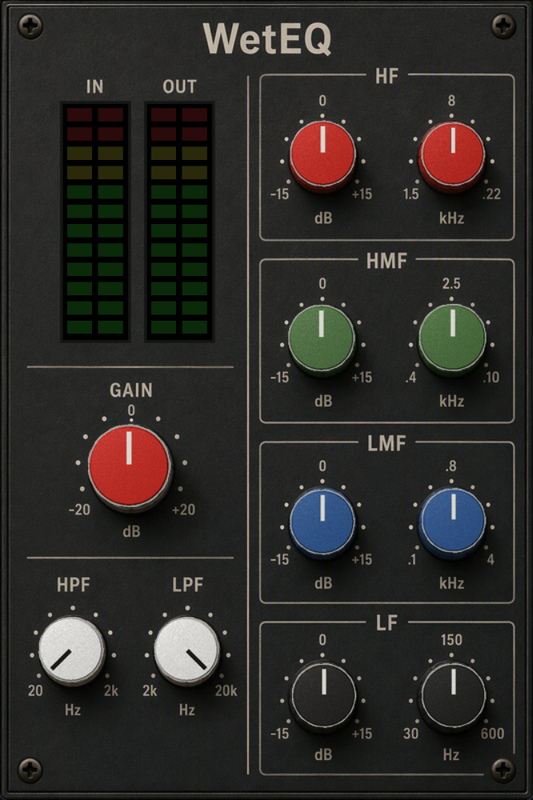
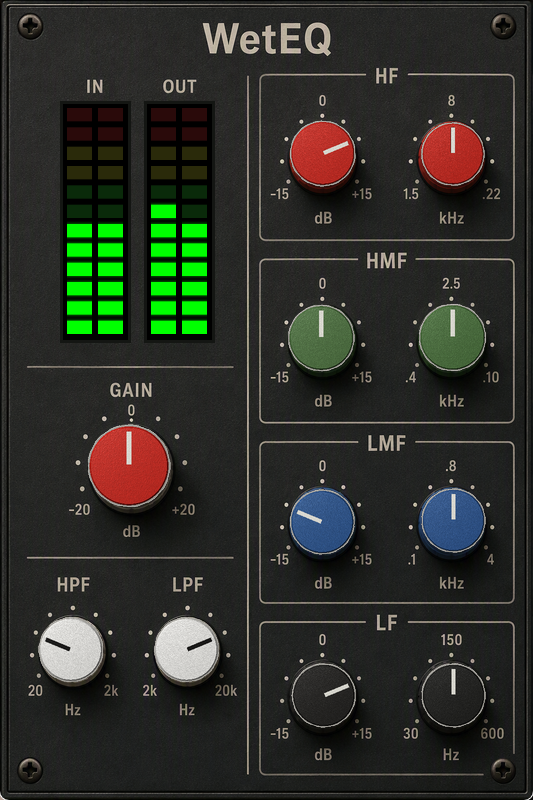
WetEQ shot with the meters running; compressor card goes live

diff --git a/index.html b/index.html
@@ -497,6 +497,32 @@
                         </div>
                     </div>
 
+                    <!-- WetCompressor - Available -->
+                    <div class="plugin-card available">
+                        <div class="plugin-header">
+                            <h3 class="plugin-name">WetCompressor</h3>
+                            <span class="plugin-status available">Available</span>
+                        </div>
+                        <p class="plugin-description">Authentic 1176-style FET compressor. Input-driven compression with 60s studio character.</p>
+                        <img src="img/wetcompressor.png" alt="WetCompressor Plugin Screenshot" class="plugin-screenshot">
+                        <ul class="plugin-features">
+                            <li>3 time constants (Fast, Normal, Slow)</li>
+                            <li>Stepped INPUT and OUTPUT, 21 positions each, fixed threshold and ratio</li>
+                            <li>Host sample rate, no downsampling</li>
+                            <li>Real-time input, gain reduction and output LED metering</li>
+                        </ul>
+                        <div class="plugin-actions">
+                            <a href="https://github.com/yonie/WetCompressor/releases" class="btn btn-primary">
+                                <svg viewBox="0 0 24 24" fill="none" stroke="currentColor" stroke-width="2"><path d="M21 15v4a2 2 0 0 1-2 2H5a2 2 0 0 1-2-2v-4"/><polyline points="7 10 12 15 17 10"/><line x1="12" y1="15" x2="12" y2="3"/></svg>
+                                Download
+                            </a>
+                            <a href="https://github.com/yonie/WetCompressor" class="btn btn-secondary">
+                                <svg viewBox="0 0 24 24" fill="none" stroke="currentColor" stroke-width="2"><path d="M9 19c-5 1.5-5-2.5-7-3m14 6v-3.87a3.37 3.37 0 0 0-.94-2.61c3.14-.35 6.44-1.54 6.44-7A5.44 5.44 0 0 0 20 4.77 5.07 5.07 0 0 0 19.91 1S18.73.65 16 2.48a13.38 13.38 0 0 0-7 0C6.27.65 5.09 1 5.09 1A5.07 5.07 0 0 0 5 4.77a5.44 5.44 0 0 0-1.5 3.78c0 5.42 3.3 6.61 6.44 7A3.37 3.37 0 0 0 9 18.13V22"/></svg>
+                                Source
+                            </a>
+                        </div>
+                    </div>
+
                     <!-- WetChorus - Coming Soon -->
                     <div class="plugin-card">
                         <div class="plugin-header">
@@ -508,22 +534,6 @@
                             <li>Antiphase L/R modulation</li>
                             <li>Fixed rate and depth</li>
                             <li>Vintage combo-amp voicing</li>
-                        </ul>
-                    </div>
-
-                    <!-- WetCompressor - Coming Soon -->
-                    <div class="plugin-card">
-                        <div class="plugin-header">
-                            <h3 class="plugin-name">WetCompressor</h3>
-                            <span class="plugin-status coming">Coming Soon</span>
-                        </div>
-                        <p class="plugin-description">Authentic 1176-style FET compressor. Input-driven compression with 60s studio character.</p>
-                        <img src="img/wetcompressor.png" alt="WetCompressor Plugin Screenshot" class="plugin-screenshot">
-                        <ul class="plugin-features">
-                            <li>3 time constants (Fast, Normal, Slow)</li>
-                            <li>Stepped INPUT and OUTPUT, 21 positions each, fixed threshold and ratio</li>
-                            <li>Host sample rate, no downsampling</li>
-                            <li>Real-time input, gain reduction and output LED metering</li>
                         </ul>
                     </div>
                 </div>
